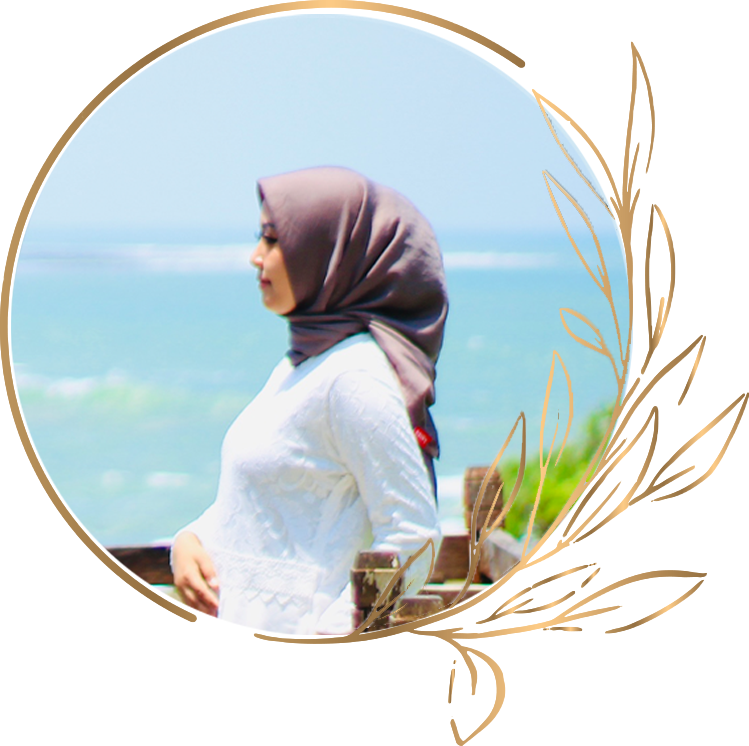
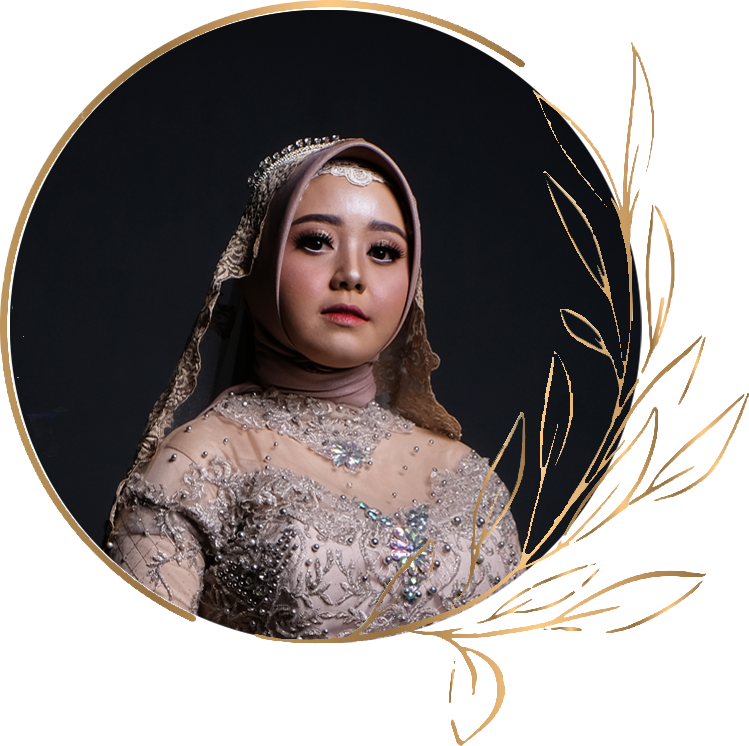
foto

diff --git a/resources/views/welcome.blade.php b/resources/views/welcome.blade.php
@@ -3564,6 +3564,58 @@ flexibility(document.documentElement);
                                                                                     class="elementor-gallery-item__overlay">
                                                                                 </div>
                                                                             </a>
+                                                                            <a class="e-gallery-item elementor-gallery-item elementor-animated-content"
+                                                                                href="{{ asset('img/galery10.jpg') }}"
+                                                                                data-elementor-open-lightbox="yes"
+                                                                                data-elementor-lightbox-slideshow="all-8a6344f"
+                                                                                data-elementor-lightbox-title="7">
+                                                                                <div class="e-gallery-image elementor-gallery-item__image"
+                                                                                    data-thumbnail="{{ asset('img/galery10.jpg') }}"
+                                                                                    data-width="768" data-height="1152"
+                                                                                    alt=""></div>
+                                                                                <div
+                                                                                    class="elementor-gallery-item__overlay">
+                                                                                </div>
+                                                                            </a>
+                                                                            <a class="e-gallery-item elementor-gallery-item elementor-animated-content"
+                                                                                href="{{ asset('img/galery11.jpg') }}"
+                                                                                data-elementor-open-lightbox="yes"
+                                                                                data-elementor-lightbox-slideshow="all-8a6344f"
+                                                                                data-elementor-lightbox-title="7">
+                                                                                <div class="e-gallery-image elementor-gallery-item__image"
+                                                                                    data-thumbnail="{{ asset('img/galery11.jpg') }}"
+                                                                                    data-width="768" data-height="1152"
+                                                                                    alt=""></div>
+                                                                                <div
+                                                                                    class="elementor-gallery-item__overlay">
+                                                                                </div>
+                                                                            </a>
+                                                                            <a class="e-gallery-item elementor-gallery-item elementor-animated-content"
+                                                                                href="{{ asset('img/galery12.jpg') }}"
+                                                                                data-elementor-open-lightbox="yes"
+                                                                                data-elementor-lightbox-slideshow="all-8a6344f"
+                                                                                data-elementor-lightbox-title="7">
+                                                                                <div class="e-gallery-image elementor-gallery-item__image"
+                                                                                    data-thumbnail="{{ asset('img/galery12.jpg') }}"
+                                                                                    data-width="768" data-height="1152"
+                                                                                    alt=""></div>
+                                                                                <div
+                                                                                    class="elementor-gallery-item__overlay">
+                                                                                </div>
+                                                                            </a>
+                                                                            <a class="e-gallery-item elementor-gallery-item elementor-animated-content"
+                                                                                href="{{ asset('img/galery13.jpg') }}"
+                                                                                data-elementor-open-lightbox="yes"
+                                                                                data-elementor-lightbox-slideshow="all-8a6344f"
+                                                                                data-elementor-lightbox-title="7">
+                                                                                <div class="e-gallery-image elementor-gallery-item__image"
+                                                                                    data-thumbnail="{{ asset('img/galery13.jpg') }}"
+                                                                                    data-width="768" data-height="1152"
+                                                                                    alt=""></div>
+                                                                                <div
+                                                                                    class="elementor-gallery-item__overlay">
+                                                                                </div>
+                                                                            </a>
                                                                         </div>
                                                                     </div>
                                                                 </div>
